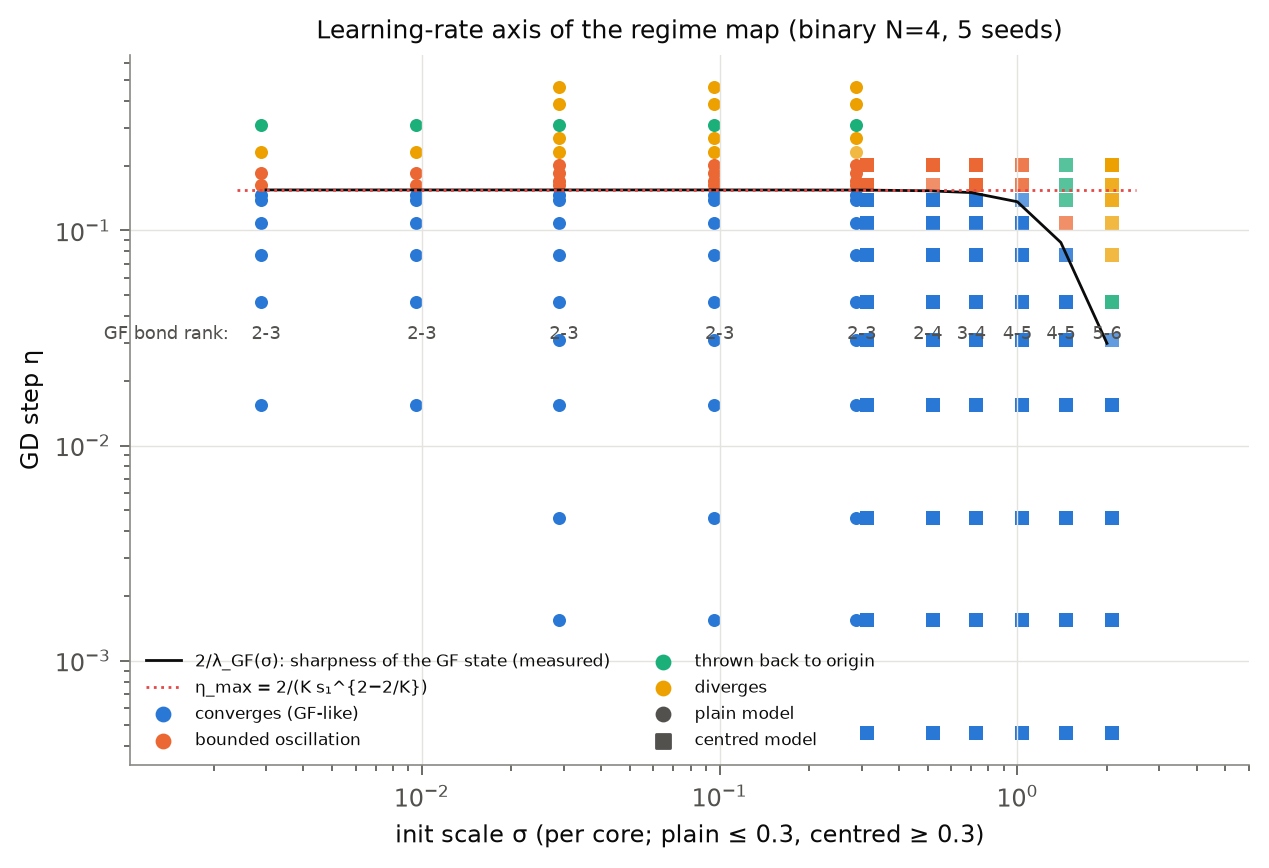
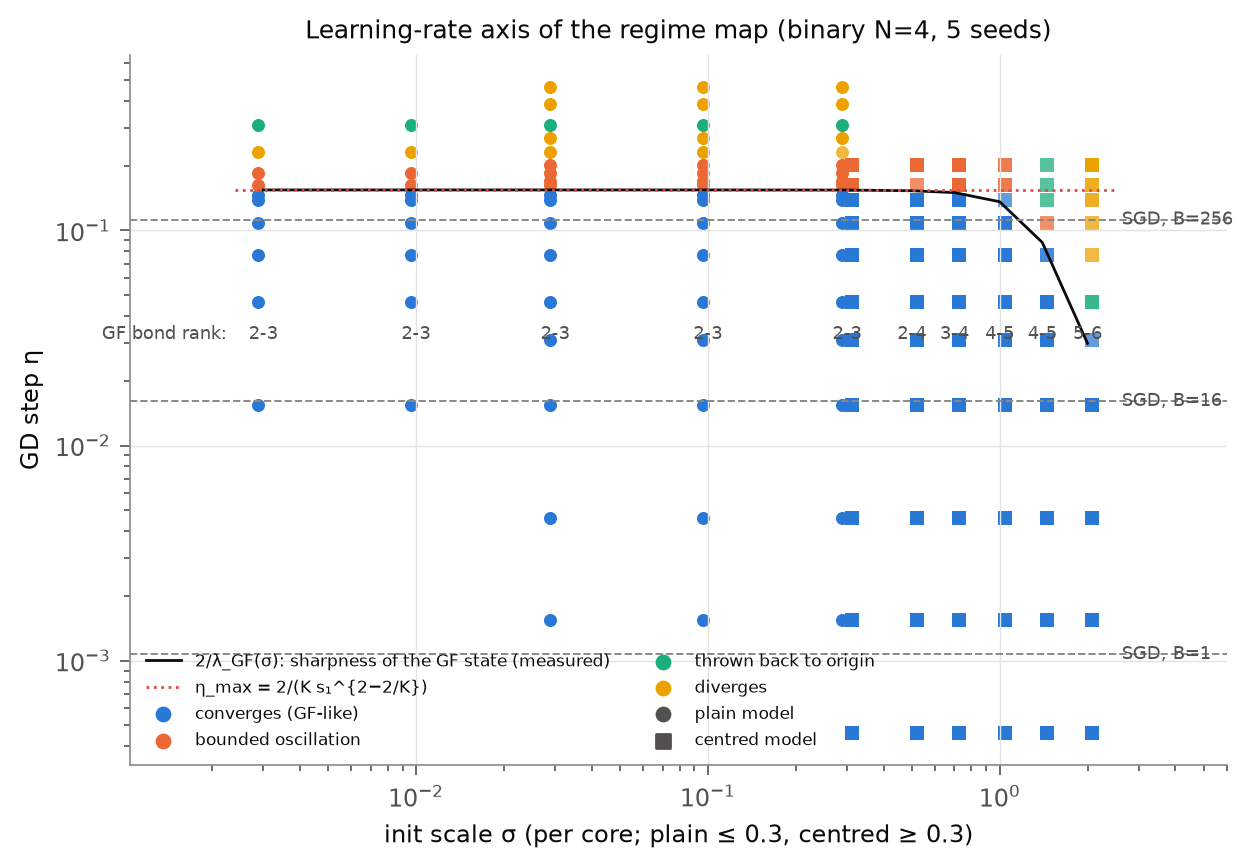
optim-samples: regenerated SGD stability table (binary4, mps4), final SGD and regime-map figures

diff --git a/experiments/optim_samples/plot_regime.py b/experiments/optim_samples/plot_regime.py
@@ -37,7 +37,9 @@ def main():
     ref = df.groupby("sigma").agg(gf=("sharp_gf_rel", "mean"))
     ax.plot(ref.index, 2 / (ref.gf * lam_bal), "-", color=ps.INK, lw=1,
             label="2/λ_GF(σ): sharpness of the GF state (measured)")
-    ranks = df.groupby("sigma").eff_ranks_gf.agg(lambda r: sorted({int(str(v).strip("[]").split(",")[0]) for v in r}))
+    lab_df = df[(df.centred & (df.sigma >= 0.3)) | (~df.centred & (df.sigma < 0.3))]
+    ranks = lab_df.groupby("sigma").eff_ranks_gf.agg(
+        lambda r: sorted({int(str(v).strip("[]").split(",")[0]) for v in r}))
     for sig, rk in ranks.items():
         txt = str(rk[0]) if len(rk) == 1 else f"{rk[0]}-{rk[-1]}"
         ax.text(sig, 0.6, txt, fontsize=6.5, color=ps.INK2, ha="center",

diff --git a/notes/optim_samples.md b/notes/optim_samples.md
@@ -311,6 +311,9 @@ Exact values at the balanced minimum, binary N=4, teacher [3, 2, 1] (`sgd_stabil
 | eta_ms | 0.00107 | 0.00213 | 0.00423 | 0.00831 | 0.0161 | 0.0300 | 0.0528 | 0.0831 | 0.112 | 0.142 | 0.154 |
 | 1D (U_1) estimate | 0.0019 | 0.0038 | 0.0073 | 0.0140 | 0.0257 | 0.0440 | 0.0685 | 0.0948 | 0.117 | 0.143 | 0.154 |
 
+MPS N=4 (K = 4, lambda = 20.78): eta_ms = 0.000765, 0.00152, 0.00301, 0.00590, 0.0113, 0.0209, 0.0357,
+0.0541, 0.0708, 0.0890 for B = 1 ... 1024 (GD 0.0962), equal to the theory note's P8 values.
+
 eta_ms = 0.00107 B for B <= 16: **small-batch SGD on product features is ~150x less stable than GD
 per sample** (effective kurtosis ~145 = 1.8 x 3^4: other directions feed the noise). For B >~ 3^N
 the GD limit returns.
